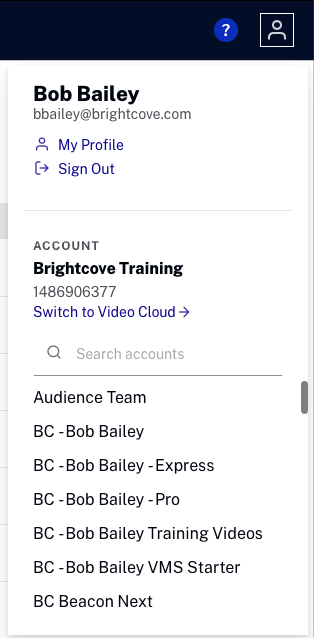
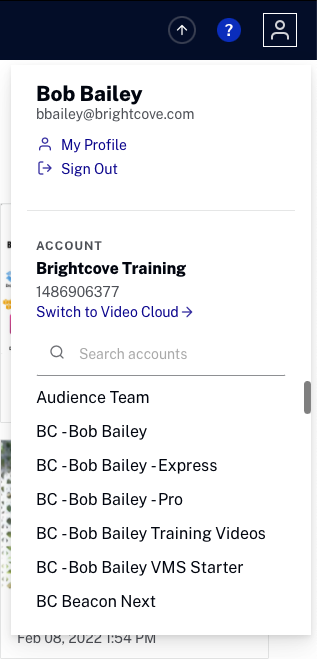
updates

diff --git a/get-started/getting-started-marketing-studio.html b/get-started/getting-started-marketing-studio.html
@@ -10,12 +10,27 @@ layout: staging
   <section class="bcls-section">
     <p>To access Marketing Studio, navigate to: <a href="https://studio.brightcove.com/products/studio">https://studio.brightcove.com/products/studio</a>. Sign in with your email address and password. The header and primary navigation on the left side of the page provide the ability to:</p>
     <ul>
+      <li><a href="#pages">Access pages</a></li>
+      <li><a href="#status-drawer">View the status drawer</a></li>
       <li><a href="#notification">View system notifications</a></li>
       <li><a href="#account">Select an account and view the user profile</a></li>
-      <li><a href="#pages">Access pages</a></li>
     </ul>
     <figure class="bcls-figure"><img class="bcls-image--no-border" alt="" src="/assets/images/get-started/studio-home.png" /></figure>
-    <p> You can have a maximum of 5 sessions at any time. A session is initiated any time you log in  with the same email address. Once a 6th session is started, the oldest session is invalidated. The Video Cloud Studio session timeout is 24 hours.</p>
+    <p> You can have a maximum of 5 sessions at any time. A session is initiated any time you log in  with the same email address. Once a 6th session is started, the oldest session is invalidated. The Marketing Studio session timeout is 24 hours.</p>
+  </section>
+  <section class="bcls-section">
+    <h2 id="pages">Accessing pages</h2>
+    <p>The primary navigation menu provides access to the various Marketing Studio pages.</p>
+    <figure class="bcls-figure"><img class="bcls-image--no-border" alt="" src="/assets/images/get-started/studio-navigation.png" /></figure>
+    <p>Note that the icons that display are based upon your Brightcove subscription and user permissions that have been assigned.</p>
+    <ul>
+      <li><a href="/media/managing-videos.html">Media</a> - Upload videos, set video properties and publish videos</li>
+      <li><a href="/analytics/reviewing-analytics.html">Analytics</a> - View analytics on video performance</li>
+    </ul>
+  </section>
+  <section class="bcls-section">
+    <h2 id="status-drawer">Viewing the status drawer</h2>
+    <p>The Marketing Studio header will display a status drawer icon <img alt="" src="/assets/images/get-started/icon-status-drawer.png" /> that shows the status of video uploads. The circle around the icon will turn green as videos are uploaded and processed. Click the icon to display the video progress. </p>
   </section>
   <section class="bcls-section">
     <h2 id="notification">Viewing system notifications</h2>
@@ -28,16 +43,6 @@ layout: staging
     <figure class="bcls-figure"><img class="bcls-image--no-border" alt="" src="/assets/images/get-started/account-selector.png" /></figure>
     <p>Click the <strong>My Profile</strong> link to update your user information and password. For more information, see <a href="/admin/managing-profile-information.html">Managing Profile Information</a>.</p>
     <p>Click <strong>Switch to Video Cloud <i data-feather="arrow-right"></i></strong> to open Video Cloud Studio.</p>
-  </section>
-  <section class="bcls-section">
-    <h2 id="pages">Accessing pages</h2>
-    <p>The primary navigation menu provides access to the various Marketing Studio pages.</p>
-    <figure class="bcls-figure"><img class="bcls-image--no-border" alt="" src="/assets/images/get-started/studio-navigation.png" /></figure>
-    <p>Note that the icons that display are based upon your Brightcove subscription and user permissions that have been assigned.</p>
-    <ul>
-      <li><a href="/media/managing-videos.html">Media</a> - Upload videos, set video properties and publish videos</li>
-      <li><a href="/analytics/reviewing-analytics.html">Analytics</a> - View analytics on video performance</li>
-    </ul>
   </section>
   <section class="bcls-section">
     <h2 id="localization">Localization</h2>
